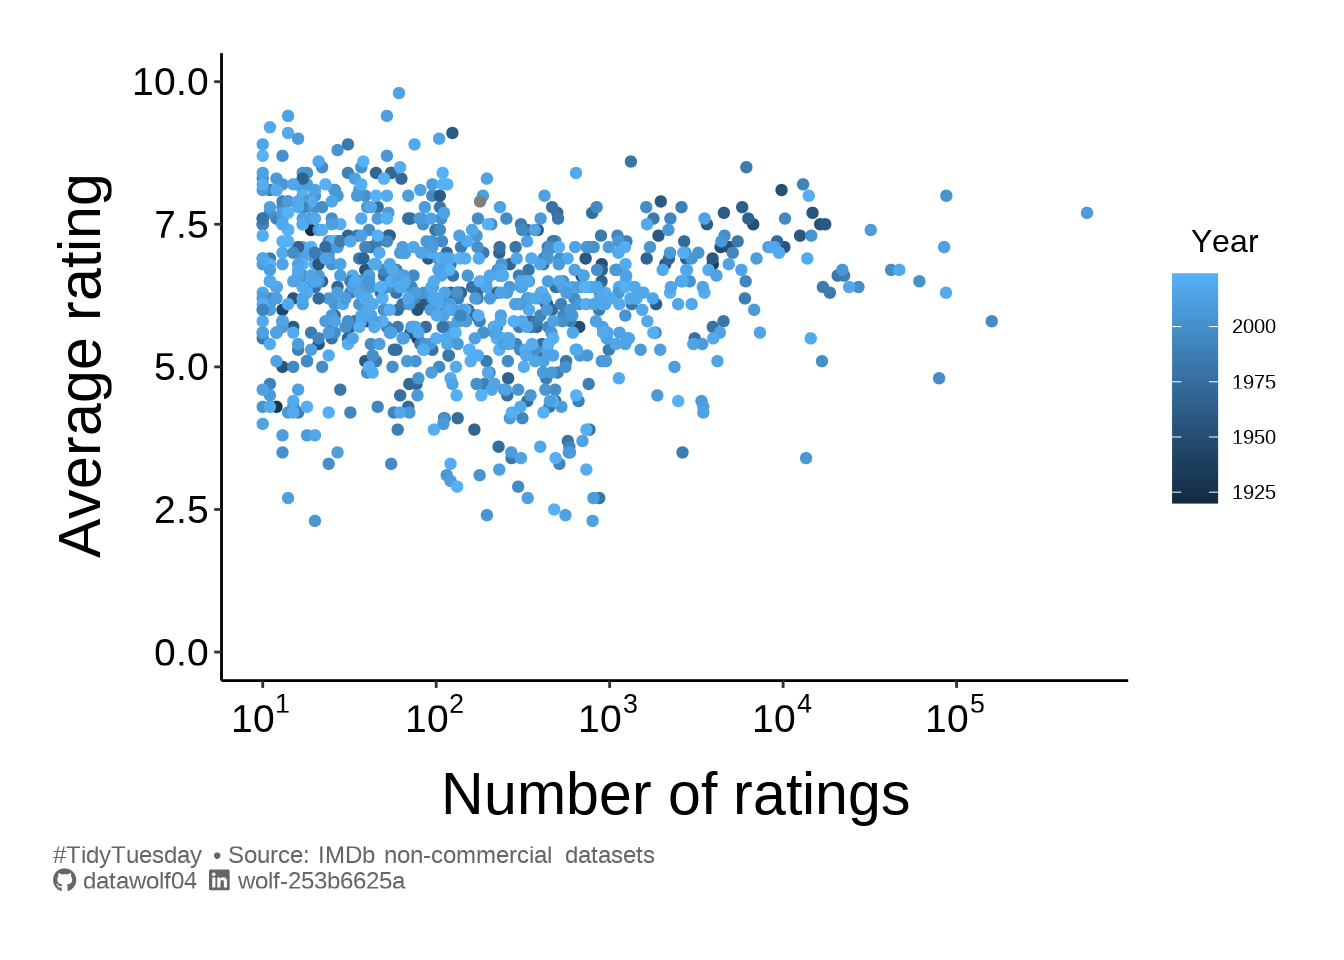
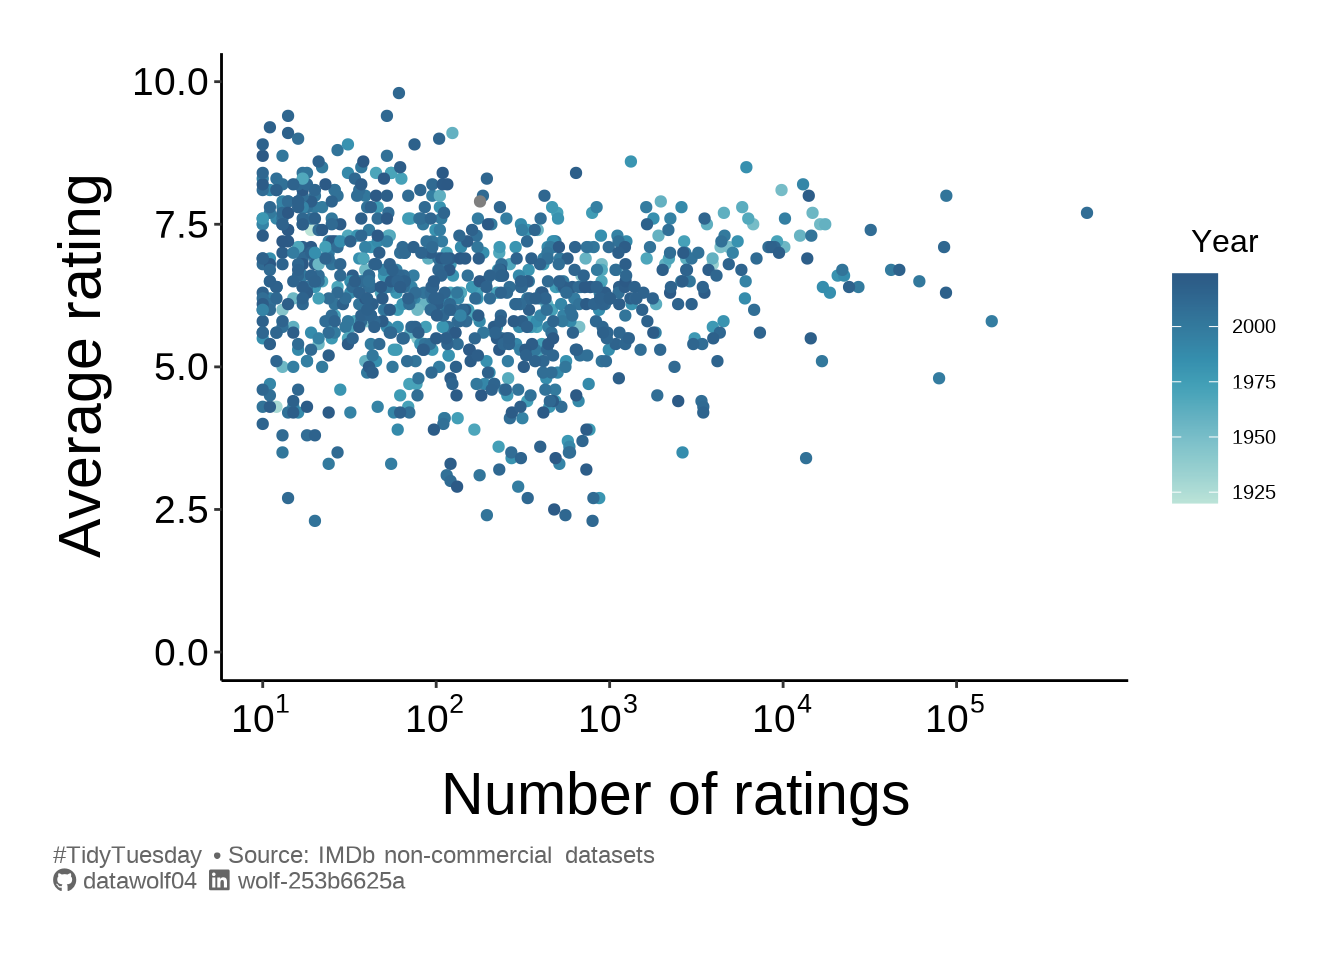
Built site for gh-pages

diff --git a/posts/summerMovies/summerMovies.html b/posts/summerMovies/summerMovies.html
@@ -104,6 +104,35 @@ pre > code.sourceCode > span > a:first-child::before { text-decoration: underlin
   }
 }</script>
 
+  <script src="https://cdnjs.cloudflare.com/polyfill/v3/polyfill.min.js?features=es6"></script>
+  <script src="https://cdn.jsdelivr.net/npm/mathjax@3/es5/tex-chtml-full.js" type="text/javascript"></script>
+
+<script type="text/javascript">
+const typesetMath = (el) => {
+  if (window.MathJax) {
+    // MathJax Typeset
+    window.MathJax.typeset([el]);
+  } else if (window.katex) {
+    // KaTeX Render
+    var mathElements = el.getElementsByClassName("math");
+    var macros = [];
+    for (var i = 0; i < mathElements.length; i++) {
+      var texText = mathElements[i].firstChild;
+      if (mathElements[i].tagName == "SPAN") {
+        window.katex.render(texText.data, mathElements[i], {
+          displayMode: mathElements[i].classList.contains('display'),
+          throwOnError: false,
+          macros: macros,
+          fleqn: false
+        });
+      }
+    }
+  }
+}
+window.Quarto = {
+  typesetMath
+};
+</script>
 
 <link rel="stylesheet" href="../../styles.css">
 </head>
@@ -204,20 +233,21 @@ pre > code.sourceCode > span > a:first-child::before { text-decoration: underlin
 <span id="cb1-5"><a href="#cb1-5" aria-hidden="true" tabindex="-1"></a><span class="fu">library</span>(ggdist)</span>
 <span id="cb1-6"><a href="#cb1-6" aria-hidden="true" tabindex="-1"></a><span class="fu">library</span>(ggrepel)</span>
 <span id="cb1-7"><a href="#cb1-7" aria-hidden="true" tabindex="-1"></a><span class="fu">library</span>(scales)</span>
-<span id="cb1-8"><a href="#cb1-8" aria-hidden="true" tabindex="-1"></a></span>
-<span id="cb1-9"><a href="#cb1-9" aria-hidden="true" tabindex="-1"></a><span class="fu">load</span>(<span class="st">'summerMovie.RData'</span>)</span></code><button title="Copy to Clipboard" class="code-copy-button"><i class="bi"></i></button></pre></div>
+<span id="cb1-8"><a href="#cb1-8" aria-hidden="true" tabindex="-1"></a><span class="fu">library</span>(paletteer)</span>
+<span id="cb1-9"><a href="#cb1-9" aria-hidden="true" tabindex="-1"></a></span>
+<span id="cb1-10"><a href="#cb1-10" aria-hidden="true" tabindex="-1"></a><span class="fu">load</span>(<span class="st">'summerMovie.RData'</span>)</span></code><button title="Copy to Clipboard" class="code-copy-button"><i class="bi"></i></button></pre></div>
 </div>
 <section id="popularity-of-movie-by-year" class="level2">
 <h2 class="anchored" data-anchor-id="popularity-of-movie-by-year">Popularity of movie by year</h2>
 <p>In some sense how well-known or popular a movie is should depend on the year. I’m guessing that very old movies may not have as many votes in the IMDB system. This could also bias the ratings</p>
 <div class="cell">
 <div class="sourceCode cell-code" id="cb2"><pre class="sourceCode r code-with-copy"><code class="sourceCode r"><span id="cb2-1"><a href="#cb2-1" aria-hidden="true" tabindex="-1"></a><span class="fu">ggplot</span>(summer_movies, <span class="fu">aes</span>(<span class="at">x=</span>year,<span class="at">y=</span>num_votes)) <span class="sc">+</span></span>
-<span id="cb2-2"><a href="#cb2-2" aria-hidden="true" tabindex="-1"></a>  <span class="fu">geom_point</span>() <span class="sc">+</span> </span>
+<span id="cb2-2"><a href="#cb2-2" aria-hidden="true" tabindex="-1"></a>  <span class="fu">geom_point</span>(<span class="at">color=</span>oneCol) <span class="sc">+</span> </span>
 <span id="cb2-3"><a href="#cb2-3" aria-hidden="true" tabindex="-1"></a>  <span class="fu">labs</span>(</span>
 <span id="cb2-4"><a href="#cb2-4" aria-hidden="true" tabindex="-1"></a>    <span class="at">x =</span> <span class="st">"Year movie released"</span>,</span>
 <span id="cb2-5"><a href="#cb2-5" aria-hidden="true" tabindex="-1"></a>    <span class="at">y =</span> <span class="st">"Number of ratings"</span>,</span>
 <span id="cb2-6"><a href="#cb2-6" aria-hidden="true" tabindex="-1"></a>    <span class="at">caption =</span> caption_text</span>
-<span id="cb2-7"><a href="#cb2-7" aria-hidden="true" tabindex="-1"></a>  ) <span class="sc">+</span> <span class="fu">themeSimple</span>()</span></code><button title="Copy to Clipboard" class="code-copy-button"><i class="bi"></i></button></pre></div>
+<span id="cb2-7"><a href="#cb2-7" aria-hidden="true" tabindex="-1"></a>  ) <span class="sc">+</span> <span class="fu">theme_simple</span>()</span></code><button title="Copy to Clipboard" class="code-copy-button"><i class="bi"></i></button></pre></div>
 <div class="cell-output cell-output-stderr">
 <pre><code>Warning: Removed 1 row containing missing values or values outside the scale range
 (`geom_point()`).</code></pre>
@@ -237,12 +267,13 @@ pre > code.sourceCode > span > a:first-child::before { text-decoration: underlin
 <span id="cb4-3"><a href="#cb4-3" aria-hidden="true" tabindex="-1"></a>  <span class="fu">scale_x_log10</span>(<span class="at">breaks =</span> <span class="fu">trans_breaks</span>(<span class="st">"log10"</span>, <span class="cf">function</span>(x) <span class="dv">10</span><span class="sc">^</span>x),</span>
 <span id="cb4-4"><a href="#cb4-4" aria-hidden="true" tabindex="-1"></a>                <span class="at">labels =</span> <span class="fu">trans_format</span>(<span class="st">"log10"</span>, <span class="fu">math_format</span>(<span class="dv">10</span><span class="sc">^</span>.x))) <span class="sc">+</span></span>
 <span id="cb4-5"><a href="#cb4-5" aria-hidden="true" tabindex="-1"></a>  <span class="fu">scale_y_continuous</span>(<span class="at">limits =</span> <span class="fu">c</span>(<span class="dv">0</span>,<span class="dv">10</span>)) <span class="sc">+</span> </span>
-<span id="cb4-6"><a href="#cb4-6" aria-hidden="true" tabindex="-1"></a>  <span class="fu">labs</span>(</span>
-<span id="cb4-7"><a href="#cb4-7" aria-hidden="true" tabindex="-1"></a>    <span class="at">x =</span> <span class="st">"Number of ratings"</span>,</span>
-<span id="cb4-8"><a href="#cb4-8" aria-hidden="true" tabindex="-1"></a>    <span class="at">y =</span> <span class="st">"Average rating"</span>,</span>
-<span id="cb4-9"><a href="#cb4-9" aria-hidden="true" tabindex="-1"></a>    <span class="at">colour =</span> <span class="st">"Year"</span>,</span>
-<span id="cb4-10"><a href="#cb4-10" aria-hidden="true" tabindex="-1"></a>    <span class="at">caption =</span> caption_text</span>
-<span id="cb4-11"><a href="#cb4-11" aria-hidden="true" tabindex="-1"></a>  ) <span class="sc">+</span> <span class="fu">themeSimple</span>()</span></code><button title="Copy to Clipboard" class="code-copy-button"><i class="bi"></i></button></pre></div>
+<span id="cb4-6"><a href="#cb4-6" aria-hidden="true" tabindex="-1"></a>  <span class="fu">scale_color_paletteer_c</span>(col_pal_cont) <span class="sc">+</span></span>
+<span id="cb4-7"><a href="#cb4-7" aria-hidden="true" tabindex="-1"></a>  <span class="fu">labs</span>(</span>
+<span id="cb4-8"><a href="#cb4-8" aria-hidden="true" tabindex="-1"></a>    <span class="at">x =</span> <span class="st">"Number of ratings"</span>,</span>
+<span id="cb4-9"><a href="#cb4-9" aria-hidden="true" tabindex="-1"></a>    <span class="at">y =</span> <span class="st">"Average rating"</span>,</span>
+<span id="cb4-10"><a href="#cb4-10" aria-hidden="true" tabindex="-1"></a>    <span class="at">color =</span> <span class="st">"Year"</span>,</span>
+<span id="cb4-11"><a href="#cb4-11" aria-hidden="true" tabindex="-1"></a>    <span class="at">caption =</span> caption_text</span>
+<span id="cb4-12"><a href="#cb4-12" aria-hidden="true" tabindex="-1"></a>  ) <span class="sc">+</span> <span class="fu">theme_simple</span>()</span></code><button title="Copy to Clipboard" class="code-copy-button"><i class="bi"></i></button></pre></div>
 <div class="cell-output-display">
 <div>
 <figure class="figure">
@@ -251,13 +282,13 @@ pre > code.sourceCode > span > a:first-child::before { text-decoration: underlin
 </div>
 </div>
 </div>
-<p>I’d say that there are no truly universally bad summer movies (for example with everyone scoring it a 0 or 1 out of 10). It also seems like there is a “reversion to the mean” effect for movies that have more votes, although this could simply be the result of sparse data. By “reversion to the mean” I am referring to the vaguely triangular shape of the blob of points, suggesting that as a movie is rated more and more, the diversity of opinion forces the mean rating to tend away from extreme values.</p>
+<p>I’d say that there are no truly universally bad summer movies (for example with everyone scoring it a 0 or 1 out of 10). Despite the recency bias in the rating volume, it would seem that movies can be rated poorly or highly regardless of the year the movie was released. It also seems like there is a “reversion to the mean” effect for movies that have more votes, although this could simply be the result of sparse data. By “reversion to the mean” I am referring to the vaguely triangular shape of the blob of points, suggesting that as a movie is rated more and more, the diversity of opinion forces the mean rating to tend away from extreme values.</p>
 </section>
 <section id="re-imagining-other-work" class="level2">
 <h2 class="anchored" data-anchor-id="re-imagining-other-work">Re-imagining other work</h2>
 <p>As I’m doing this a bit late in the game, I can take advantage of the work some others have done. I saw <a href="https://github.com/poncest/tidytuesday/tree/main/2024/Week_31">this plot</a>, and thought it would be good to replicate here, with a subtle twist.</p>
 <p><img src="https://raw.githubusercontent.com/poncest/tidytuesday/main/2024/Week_31/2024_31.png" class="img-fluid"></p>
-<p>Rather than plotting mean values for each genre, I thought I’d make a box plot instead of plotting the average rating. So I will tidy up the data.</p>
+<p>Rather than plotting mean values for each genre, I thought I’d make a box plot instead of plotting the average rating. So I will tidy up the data. Furthermore, since I’m creating a box plot, I’m going to remove genres with fewer than <span class="math inline">\(N=5\)</span> ratings.</p>
 <div class="cell">
 <div class="sourceCode cell-code" id="cb5"><pre class="sourceCode r code-with-copy"><code class="sourceCode r"><span id="cb5-1"><a href="#cb5-1" aria-hidden="true" tabindex="-1"></a>globalMedian <span class="ot">=</span> <span class="fu">median</span>(summer_movies<span class="sc">$</span>average_rating, <span class="at">na.rm =</span> <span class="cn">TRUE</span>)</span>
 <span id="cb5-2"><a href="#cb5-2" aria-hidden="true" tabindex="-1"></a>gDat <span class="ot">&lt;-</span> summer_movies <span class="sc">|&gt;</span> <span class="fu">separate_longer_delim</span>(<span class="at">cols =</span> genres, <span class="at">delim =</span> <span class="st">","</span>) <span class="sc">|&gt;</span></span>
@@ -275,7 +306,8 @@ pre > code.sourceCode > span > a:first-child::before { text-decoration: underlin
 <span id="cb5-14"><a href="#cb5-14" aria-hidden="true" tabindex="-1"></a>      <span class="at">genre_count =</span> <span class="fu">str_glue</span>(<span class="st">"{genres} ({count})"</span>),</span>
 <span id="cb5-15"><a href="#cb5-15" aria-hidden="true" tabindex="-1"></a>      <span class="at">genre_count =</span> <span class="fu">fct_reorder</span>(genre_count, rating, <span class="at">.desc =</span> <span class="cn">FALSE</span>),</span>
 <span id="cb5-16"><a href="#cb5-16" aria-hidden="true" tabindex="-1"></a>      <span class="at">highlight =</span> <span class="fu">ifelse</span>(rating <span class="sc">&gt;=</span> globalMedian, <span class="st">"yes"</span>,<span class="st">"no"</span>)</span>
-<span id="cb5-17"><a href="#cb5-17" aria-hidden="true" tabindex="-1"></a>      )</span></code><button title="Copy to Clipboard" class="code-copy-button"><i class="bi"></i></button></pre></div>
+<span id="cb5-17"><a href="#cb5-17" aria-hidden="true" tabindex="-1"></a>      ) <span class="sc">|&gt;</span></span>
+<span id="cb5-18"><a href="#cb5-18" aria-hidden="true" tabindex="-1"></a>  <span class="fu">filter</span>(count<span class="sc">&gt;=</span><span class="dv">5</span>)</span></code><button title="Copy to Clipboard" class="code-copy-button"><i class="bi"></i></button></pre></div>
 </div>
 <p>And finally, the plot.</p>
 <div class="cell">
@@ -293,7 +325,8 @@ pre > code.sourceCode > span > a:first-child::before { text-decoration: underlin
 <span id="cb6-12"><a href="#cb6-12" aria-hidden="true" tabindex="-1"></a>  ) <span class="sc">+</span></span>
 <span id="cb6-13"><a href="#cb6-13" aria-hidden="true" tabindex="-1"></a>  <span class="fu">scale_x_continuous</span>(<span class="at">breaks =</span> <span class="fu">seq</span>(<span class="dv">2</span>,<span class="dv">10</span>,<span class="at">by=</span><span class="dv">1</span>), <span class="at">limits=</span><span class="fu">c</span>(<span class="dv">2</span>,<span class="dv">10</span>)) <span class="sc">+</span></span>
 <span id="cb6-14"><a href="#cb6-14" aria-hidden="true" tabindex="-1"></a>  <span class="fu">scale_y_discrete</span>() <span class="sc">+</span></span>
-<span id="cb6-15"><a href="#cb6-15" aria-hidden="true" tabindex="-1"></a>  <span class="fu">coord_cartesian</span>(<span class="at">clip=</span><span class="st">'off'</span>) <span class="sc">+</span> <span class="fu">catYtheme</span>()</span></code><button title="Copy to Clipboard" class="code-copy-button"><i class="bi"></i></button></pre></div>
+<span id="cb6-15"><a href="#cb6-15" aria-hidden="true" tabindex="-1"></a>  <span class="fu">scale_fill_paletteer_d</span>(col_pal_dis) <span class="sc">+</span></span>
+<span id="cb6-16"><a href="#cb6-16" aria-hidden="true" tabindex="-1"></a>  <span class="fu">coord_cartesian</span>(<span class="at">clip=</span><span class="st">'off'</span>) <span class="sc">+</span> <span class="fu">theme_catY</span>()</span></code><button title="Copy to Clipboard" class="code-copy-button"><i class="bi"></i></button></pre></div>
 <div class="cell-output-display">
 <div>
 <figure class="figure">
@@ -306,6 +339,7 @@ pre > code.sourceCode > span > a:first-child::before { text-decoration: underlin
 <section id="final-notes" class="level2">
 <h2 class="anchored" data-anchor-id="final-notes">Final notes</h2>
 <p>I just found out about #TidyTuesday, just this week, and I want to participate. So the purpose of this post is mostly to get a blog going, and I hope to update approximately monthly. Now that this post is written, we’ll see if I can get this onto Github Pages. 😄</p>
+<p>[Edit: Phew! That worked!]</p>
 
 
 </section>

diff --git a/index.html b/index.html
@@ -205,7 +205,7 @@ window.Quarto = {
 
 <div class="quarto-listing quarto-listing-container-default" id="listing-listing">
 <div class="list quarto-listing-default">
-<div class="quarto-post image-right" data-index="0" data-categories="tidyTuesday" data-listing-date-sort="1722556800000" data-listing-file-modified-sort="1722707248565" data-listing-date-modified-sort="NaN" data-listing-reading-time-sort="5" data-listing-word-count-sort="875">
+<div class="quarto-post image-right" data-index="0" data-categories="tidyTuesday" data-listing-date-sort="1722556800000" data-listing-file-modified-sort="1722717974147" data-listing-date-modified-sort="NaN" data-listing-reading-time-sort="5" data-listing-word-count-sort="937">
 <div class="thumbnail">
 <p><a href="./posts/summerMovies/summerMovies.html" class="no-external"></a></p><a href="./posts/summerMovies/summerMovies.html" class="no-external">
 <p class="card-img-top"><img src="posts/summerMovies/summerMovies_files/figure-html/unnamed-chunk-3-1.png"  class="thumbnail-image card-img"/></p>
